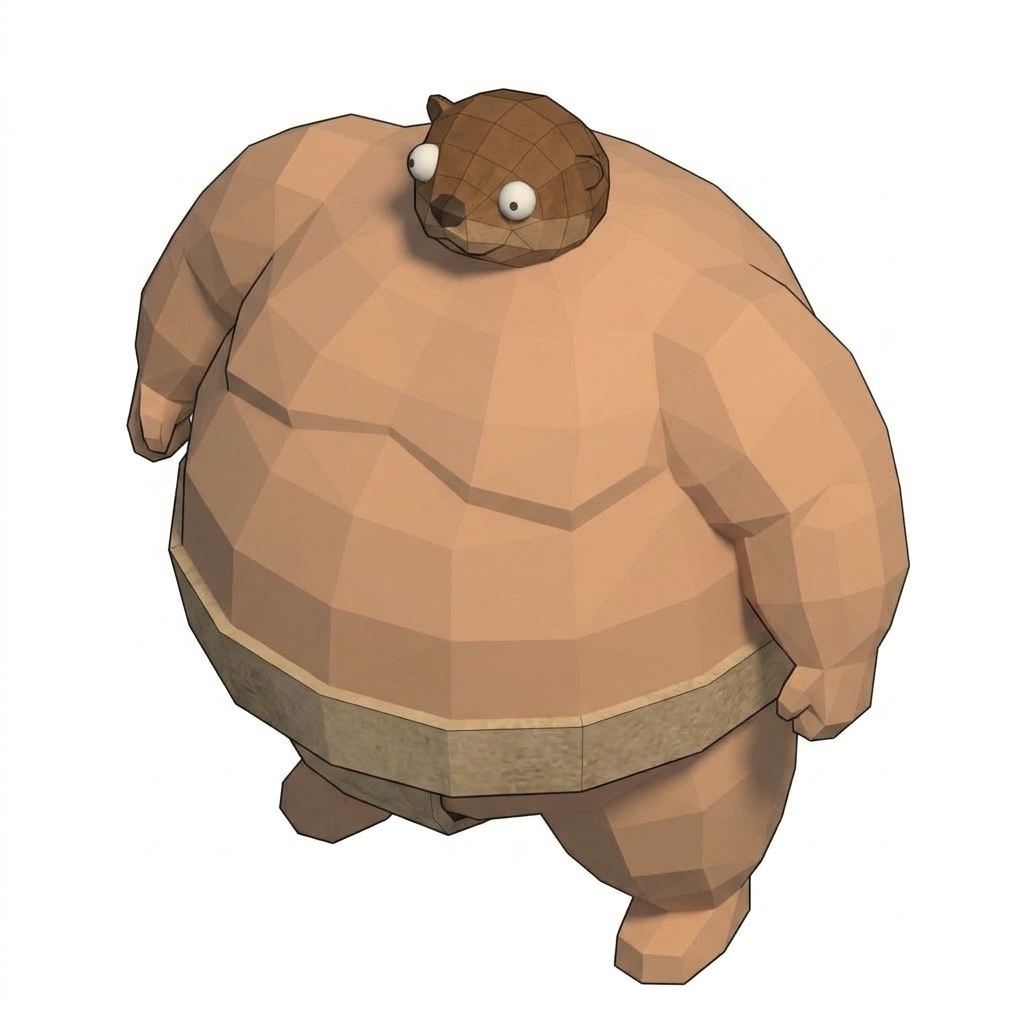
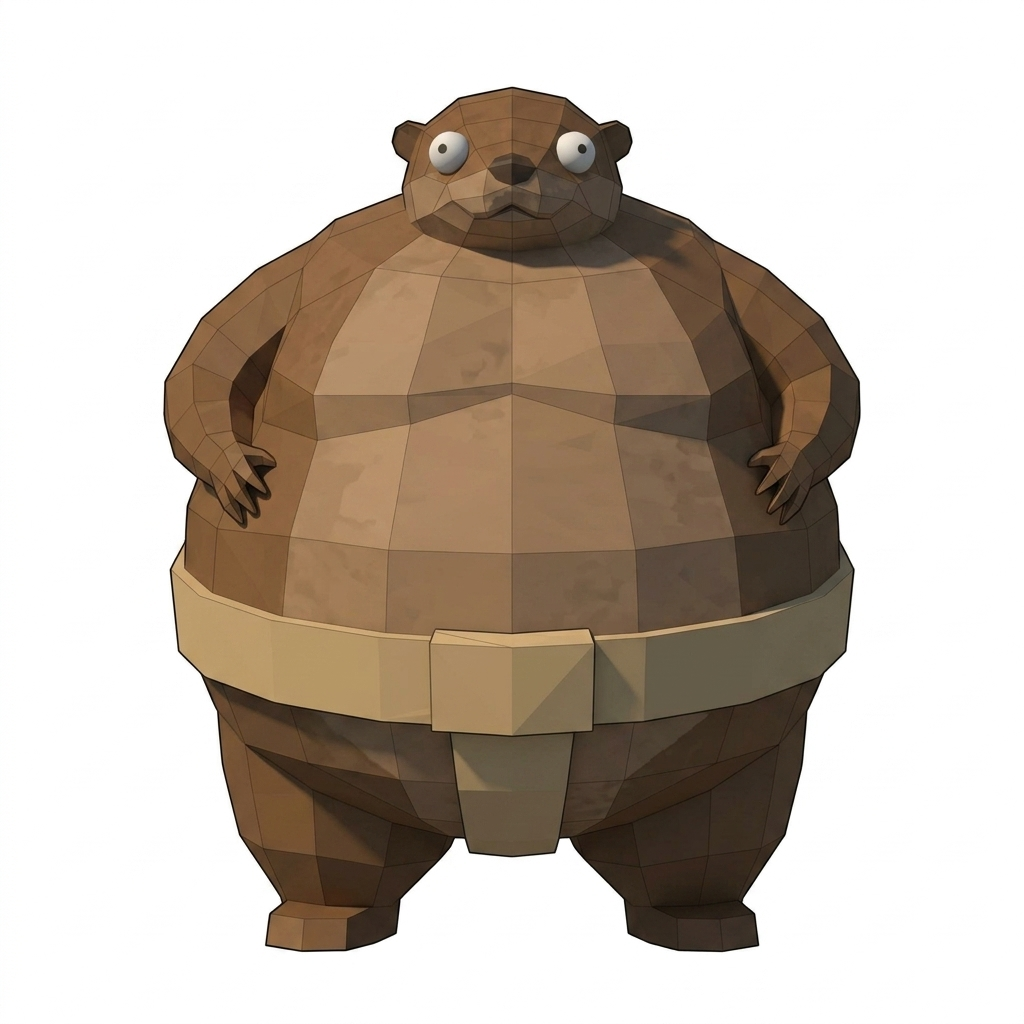
Update creature designs to be strictly front-facing and replace base otter with mecha otter

diff --git a/src/app/battle/page.tsx b/src/app/battle/page.tsx
@@ -97,7 +97,7 @@ export default function BattlePage() {
 
     const commander: BattleUnit = {
       id: 'commander_player', isEnemy: false, isCommander: true,
-      name: 'PLAYER', appearance: '/creatures/base.jpg', hp: 100, maxHp: 100, atk: 15, def: 5,
+      name: 'PLAYER', appearance: '/creatures/mecha.jpg', hp: 100, maxHp: 100, atk: 15, def: 5,
       mov: 2, rng: 2, sense: 2, hasActed: false
     };
 
@@ -357,7 +357,7 @@ export default function BattlePage() {
       isEnemy: true,
       isCommander: false,
       name: `CPU兵 ${i+1}`,
-      appearance: ['/creatures/base.jpg', '/creatures/knight.jpg', '/creatures/mage.jpg', '/creatures/ninja.jpg', '/creatures/heavy.jpg'][Math.floor(Math.random() * 5)],
+      appearance: ['/creatures/knight.jpg', '/creatures/mage.jpg', '/creatures/ninja.jpg', '/creatures/heavy.jpg', '/creatures/mecha.jpg'][Math.floor(Math.random() * 5)],
       hp: 1, maxHp: 1, atk: 0, def: 0, mov: 1, rng: 1, sense: 0,
       hasActed: false
     }));

diff --git a/src/app/creator/page.tsx b/src/app/creator/page.tsx
@@ -9,11 +9,11 @@ import Link from 'next/link';
 import { Toast } from '../../components/Toast';
 
 const appearances = [
-  '/creatures/base.jpg',
   '/creatures/knight.jpg',
   '/creatures/mage.jpg',
   '/creatures/ninja.jpg',
-  '/creatures/heavy.jpg'
+  '/creatures/heavy.jpg',
+  '/creatures/mecha.jpg'
 ];
 const MAX_COST = 600;
 
